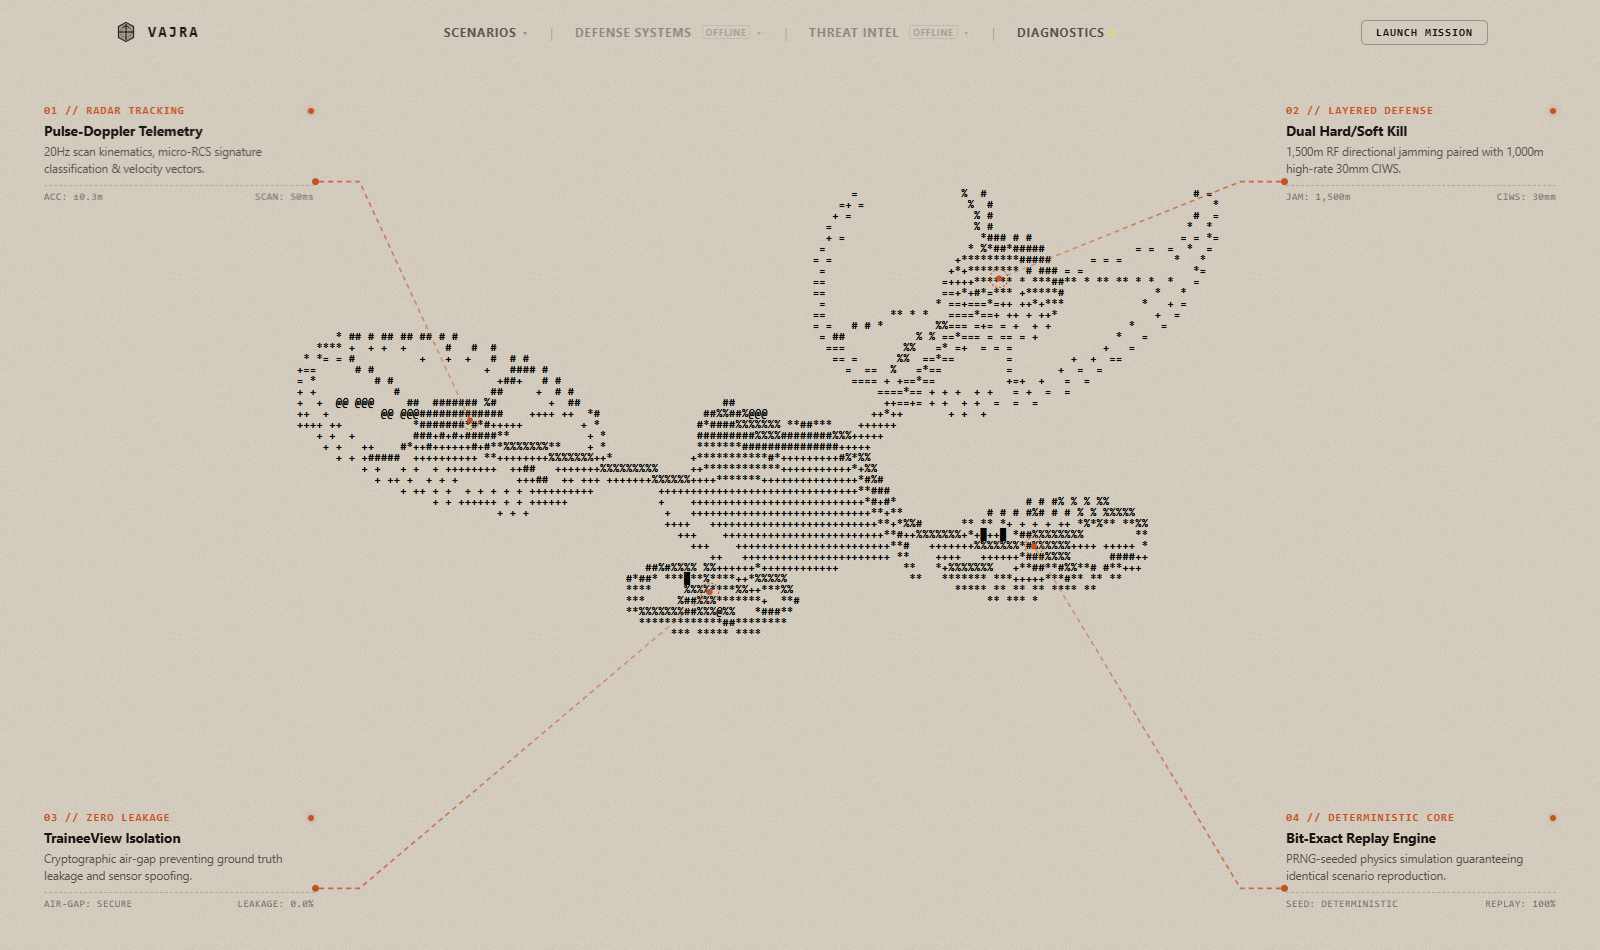
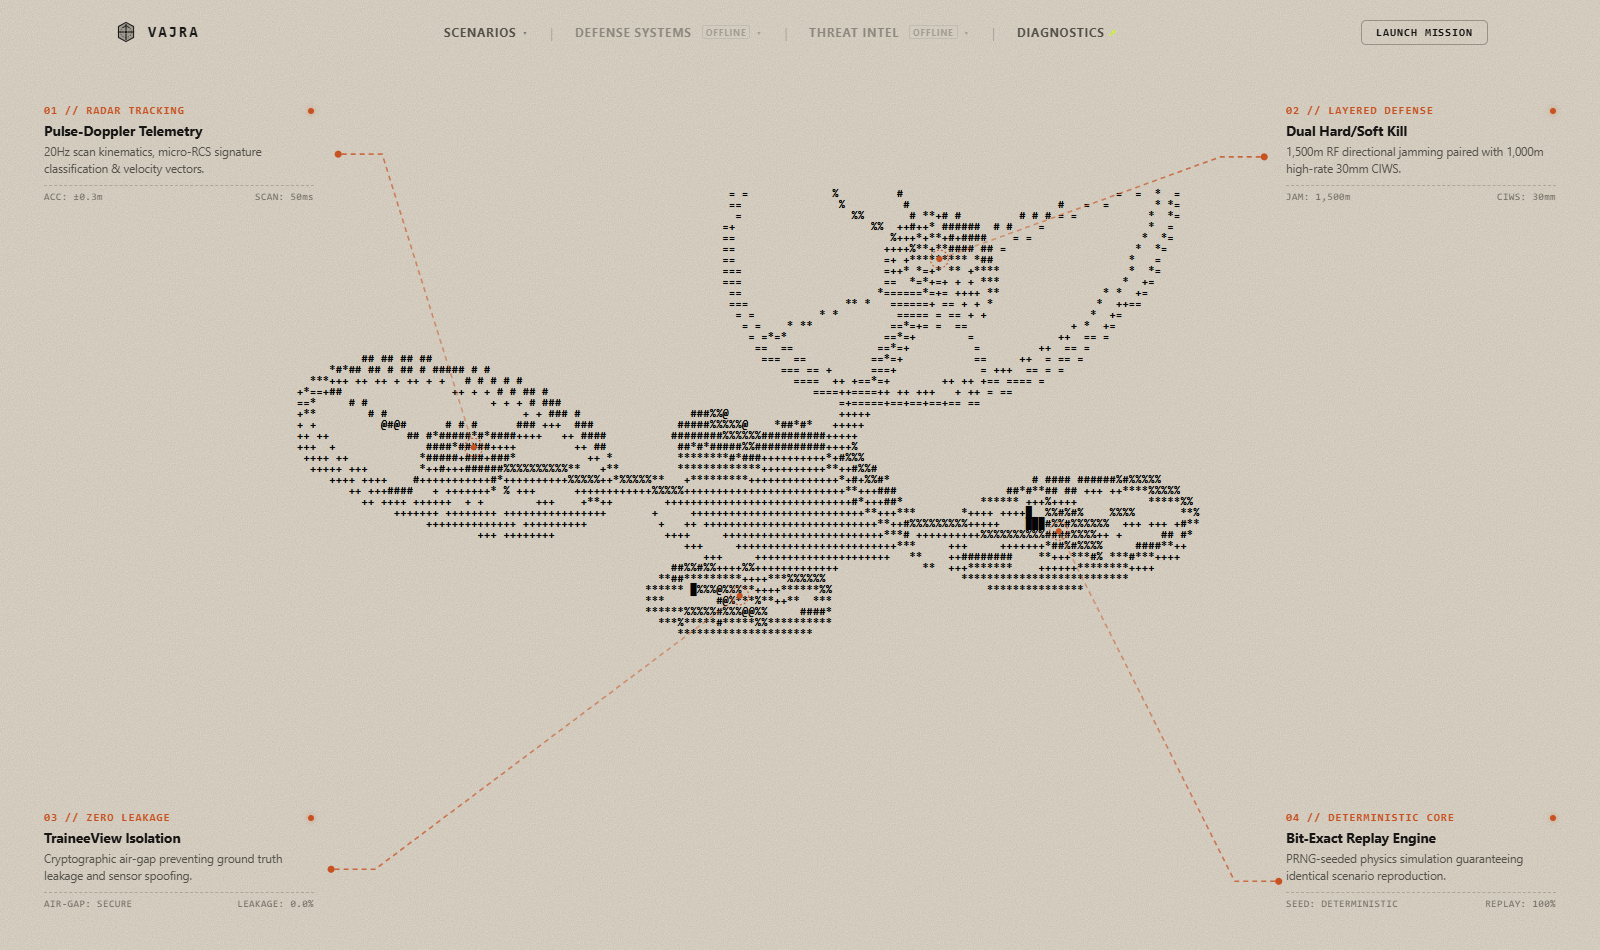
fix(ui): confine propeller wings inside ducted rotor guards with generous clearance

diff --git a/src/app/components/DroneAsciiSimulation.tsx b/src/app/components/DroneAsciiSimulation.tsx
@@ -252,7 +252,7 @@ function generateDroneModel(): Point3D[] {
   // 5. Four Carbon-Fiber Motor Arms with Ducted Rotor Guards
   const armAngles = [Math.PI / 4, (3 * Math.PI) / 4, (5 * Math.PI) / 4, (7 * Math.PI) / 4];
   const armLength = 1.55;
-  const guardRadius = 0.56;
+  const guardRadius = 0.62;
 
   for (const angle of armAngles) {
     const cosA = Math.cos(angle);
@@ -286,8 +286,8 @@ function generateDroneModel(): Point3D[] {
       }
     }
 
-    // 360-Degree Circular Rotor Guard Duct around each motor
-    for (let theta = 0; theta < Math.PI * 2; theta += 0.11) {
+    // 360-Degree Circular Rotor Guard Duct around each motor (high-density continuous rim)
+    for (let theta = 0; theta < Math.PI * 2; theta += 0.06) {
       const gx = guardRadius * Math.cos(theta);
       const gz = guardRadius * Math.sin(theta);
 
@@ -529,9 +529,9 @@ export function DroneAsciiSimulation({
       }
       propAngleRef.current += 0.38;
 
-      // Generate dynamic 3-blade spinning propellers with aerodynamic normals
+      // Generate dynamic 3-blade spinning propellers cleanly contained inside ducted guards
       const dynamicProps: Point3D[] = [];
-      const propRadius = 0.52;
+      const propRadius = 0.40;
 
       const propProgress = Math.min(1.0, Math.max(0, (globalProgress - 0.50) / 0.50));
       const propEase = cubicEaseOut(propProgress);
